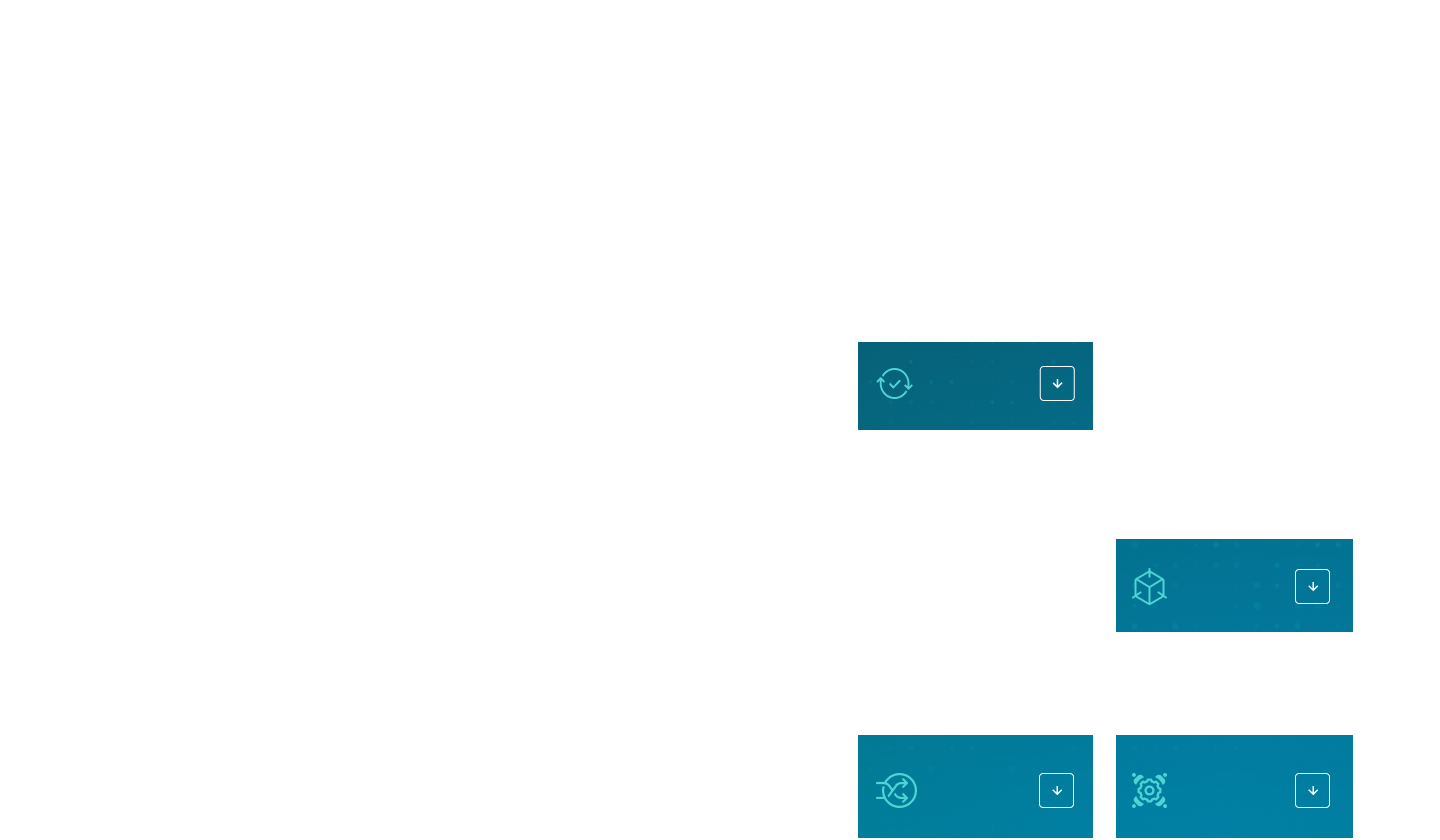
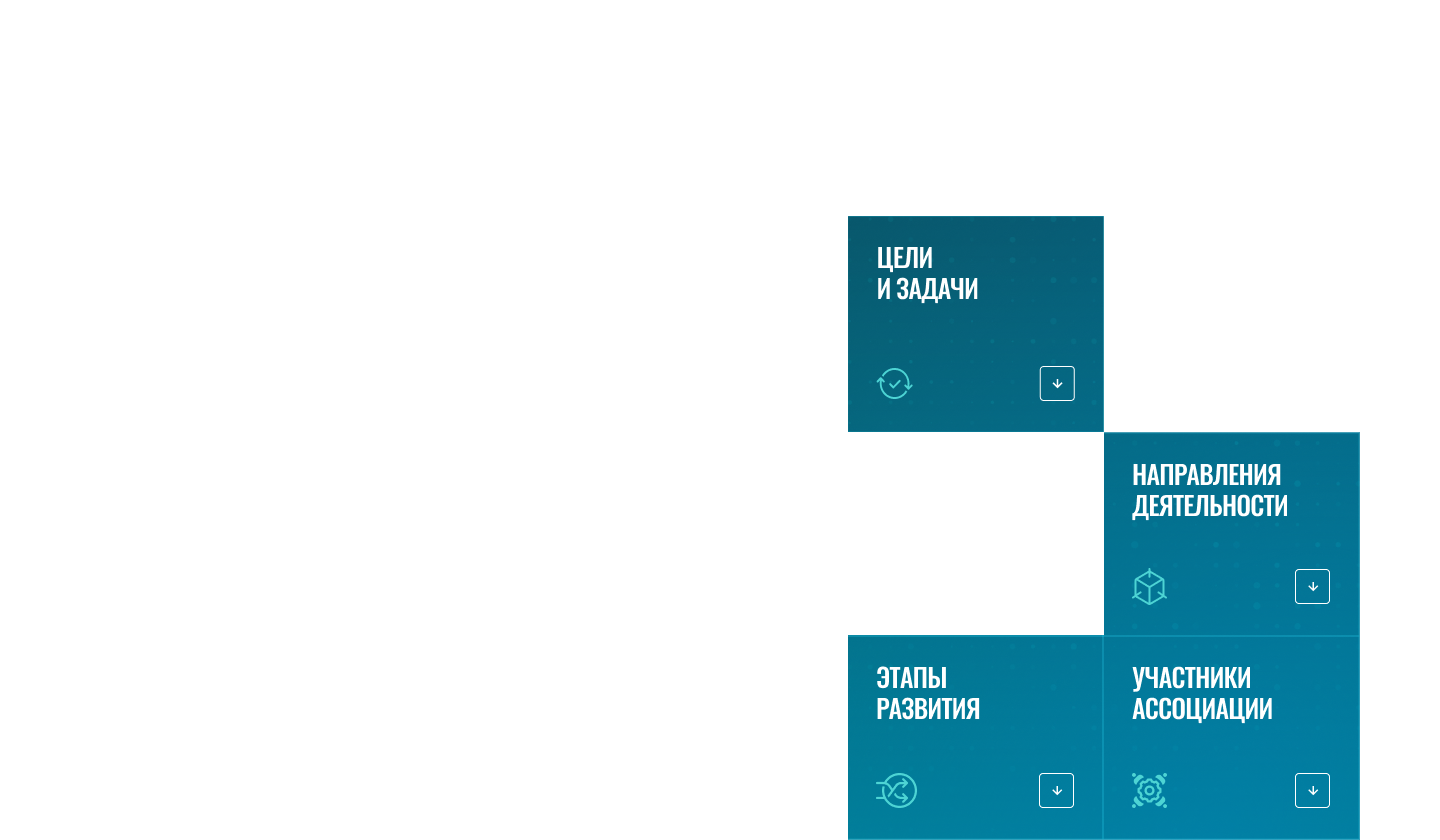
fix: refine PNG overlay mismatches

Changed region(s): [[0.5625, 0.2476, 0.9688, 1.0], [0.5938, 0.4952, 0.625, 0.5262]]

diff --git a/assets/css/structure-dark-v3.css b/assets/css/structure-dark-v3.css
@@ -770,6 +770,10 @@ body.structure-dark-v3 {
   .visual-stage--v3 .visual-stage__dot-field { opacity: 0; }
   .hero--v3 .hero__visual { visibility: hidden; }
   .hero--v3 .hero__title { transform: translateY(-14px); }
+  .structure-dark-v3 .hero__lead {
+    font-family: "TikTok Sans", Arial, sans-serif;
+    font-weight: 500;
+  }
   .hero__copy--v3 { margin-top: 52px; }
   .hero--v3 .hero__request {
     width: 287px;
@@ -780,6 +784,8 @@ body.structure-dark-v3 {
     font-size: 18px;
     letter-spacing: -.01em;
   }
+  .hero--v3 .hero__request > span { transform: translate(2px, 1px); }
+  .hero--v3 .hero__request .icon-arrow { transform: translate(1px, 1px); }
 
   .content-lower--v3::before {
     content: "";
@@ -804,22 +810,28 @@ body.structure-dark-v3 {
     height: 2307px;
     transform: translateX(-50%);
     pointer-events: none;
-    background: url("../images/figma/node-12-2-page-atmosphere.webp") center top / 1440px 2307px no-repeat;
+    background: url("../images/figma/node-12-2-page-dots.webp") center top / 1440px 2307px no-repeat;
   }
 
+  .visual-stage--v3 .v3-title { letter-spacing: -.01em; transform: translateX(-1px); }
+  .visual-stage--v3 .about-v3__opening { margin-top: 51px; }
   .goal-panel__label { transform: translate(-1px, -2px); }
   .goal-panel p { transform: translateY(-9px); }
-  .task-card--title h3 { font-size: 62px; transform: translate(-1px, -2px); }
+  .task-card--title h3 { font-size: 63px; transform: translate(-1px, -2px); }
+  .task-card p { transform: translateY(-1px); }
   .directions-v3__head h3 { transform: translateY(-7px); letter-spacing: -.006em; }
   .timeline-v3__head h3 { transform: translateY(-7px); letter-spacing: -.002em; }
+  .direction-row { padding-top: 27px; }
+  .direction-row p { font-size: 22.6px; }
 
   .direction-row--featured {
-    background: #fff url("../images/figma/node-12-2-direction-featured.png") center / 100% 100% no-repeat;
+    background: #fff url("../images/figma/node-12-2-direction-featured.webp") center / 100% 100% no-repeat;
   }
+  .direction-row--featured > * { opacity: 0; }
   .direction-row--featured::before,
   .direction-row--featured::after { display: none; }
   .direction-row--featured:hover {
-    background: #fff url("../images/figma/node-12-2-direction-featured.png") center / 100% 100% no-repeat;
+    background: #fff url("../images/figma/node-12-2-direction-featured.webp") center / 100% 100% no-repeat;
   }
 
   .timeline-v3__controls button:last-of-type {
@@ -827,6 +839,7 @@ body.structure-dark-v3 {
     color: #fff;
     background: var(--v3-ink);
   }
+  .timeline-v3__controls button:disabled { opacity: 1; }
 
   .structure-dark-v3 .metrics { height: 432px; grid-template-rows: repeat(2, 216px); overflow: hidden; }
   .goal-panel { min-height: 581px; }
@@ -835,9 +848,9 @@ body.structure-dark-v3 {
   .timeline-v3__head { margin-bottom: 45px; }
   .countries--v3 { padding-top: 0; }
   .countries--v3 .countries__inner { padding-top: 41px; }
-  .countries--v3 #countries-title { transform: translateY(-10px); }
+  .countries--v3 #countries-title { transform: translate(1px, -10px); }
   .countries--v3 .members-map {
-    width: 106vw;
+    width: 105.75vw;
     transform: translateX(calc(-50% - 26px));
   }
 }

diff --git a/index.html b/index.html
@@ -14,7 +14,7 @@
   <link rel="stylesheet" href="assets/css/enhancements.css">
   <link rel="stylesheet" href="assets/css/motion.css">
   <link rel="stylesheet" href="assets/css/motion-polish.css">
-  <link rel="stylesheet" href="assets/css/structure-dark-v3.css?v=figma-12-2-png-audit-1">
+  <link rel="stylesheet" href="assets/css/structure-dark-v3.css?v=figma-12-2-png-audit-2">
 </head>
 <body class="structure-dark-v3">
   <div class="preloader" id="site-preloader" role="progressbar" aria-label="Загрузка сайта" aria-valuemin="0" aria-valuemax="100" aria-valuenow="0">
